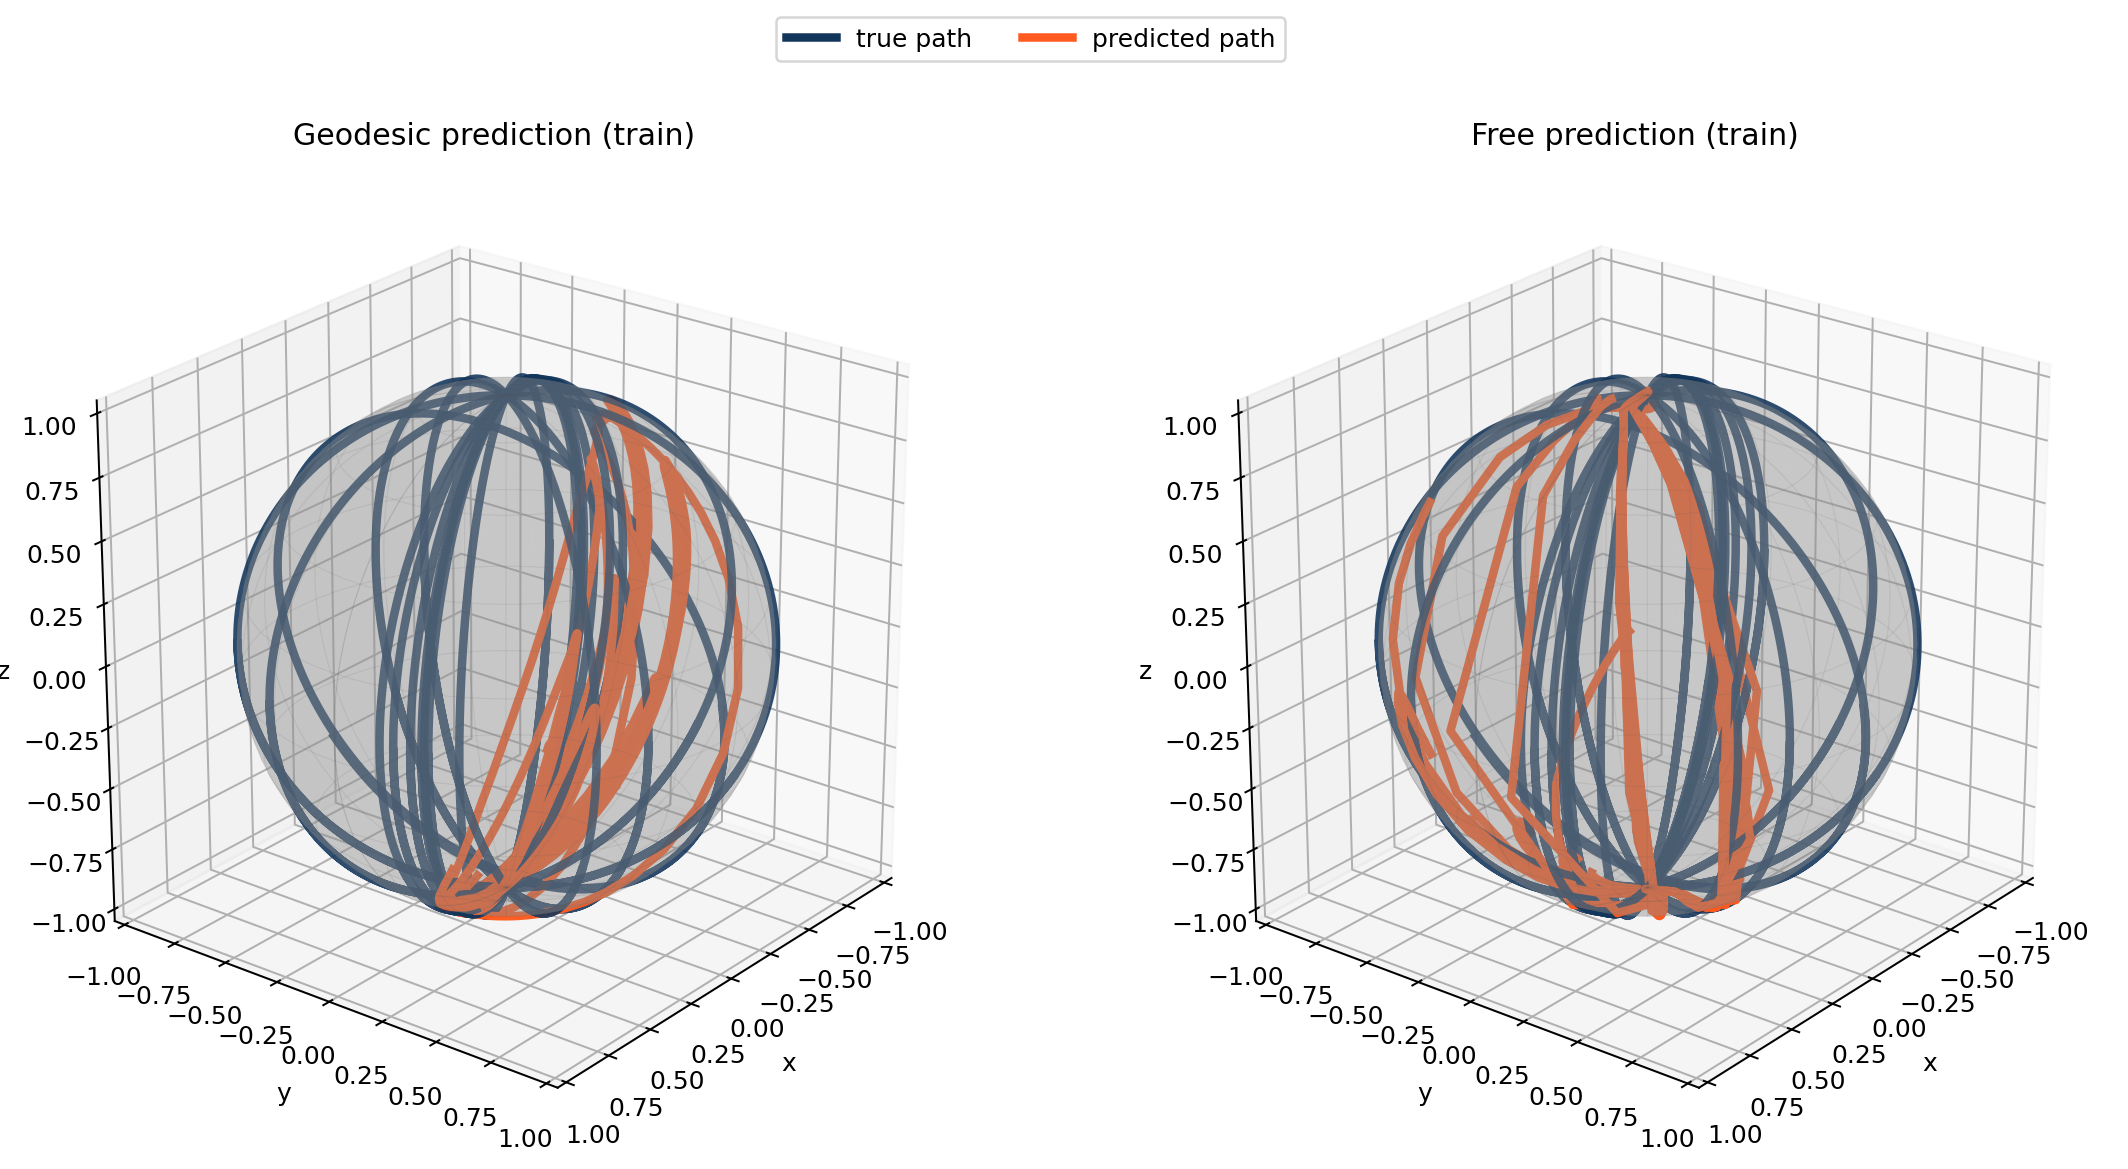
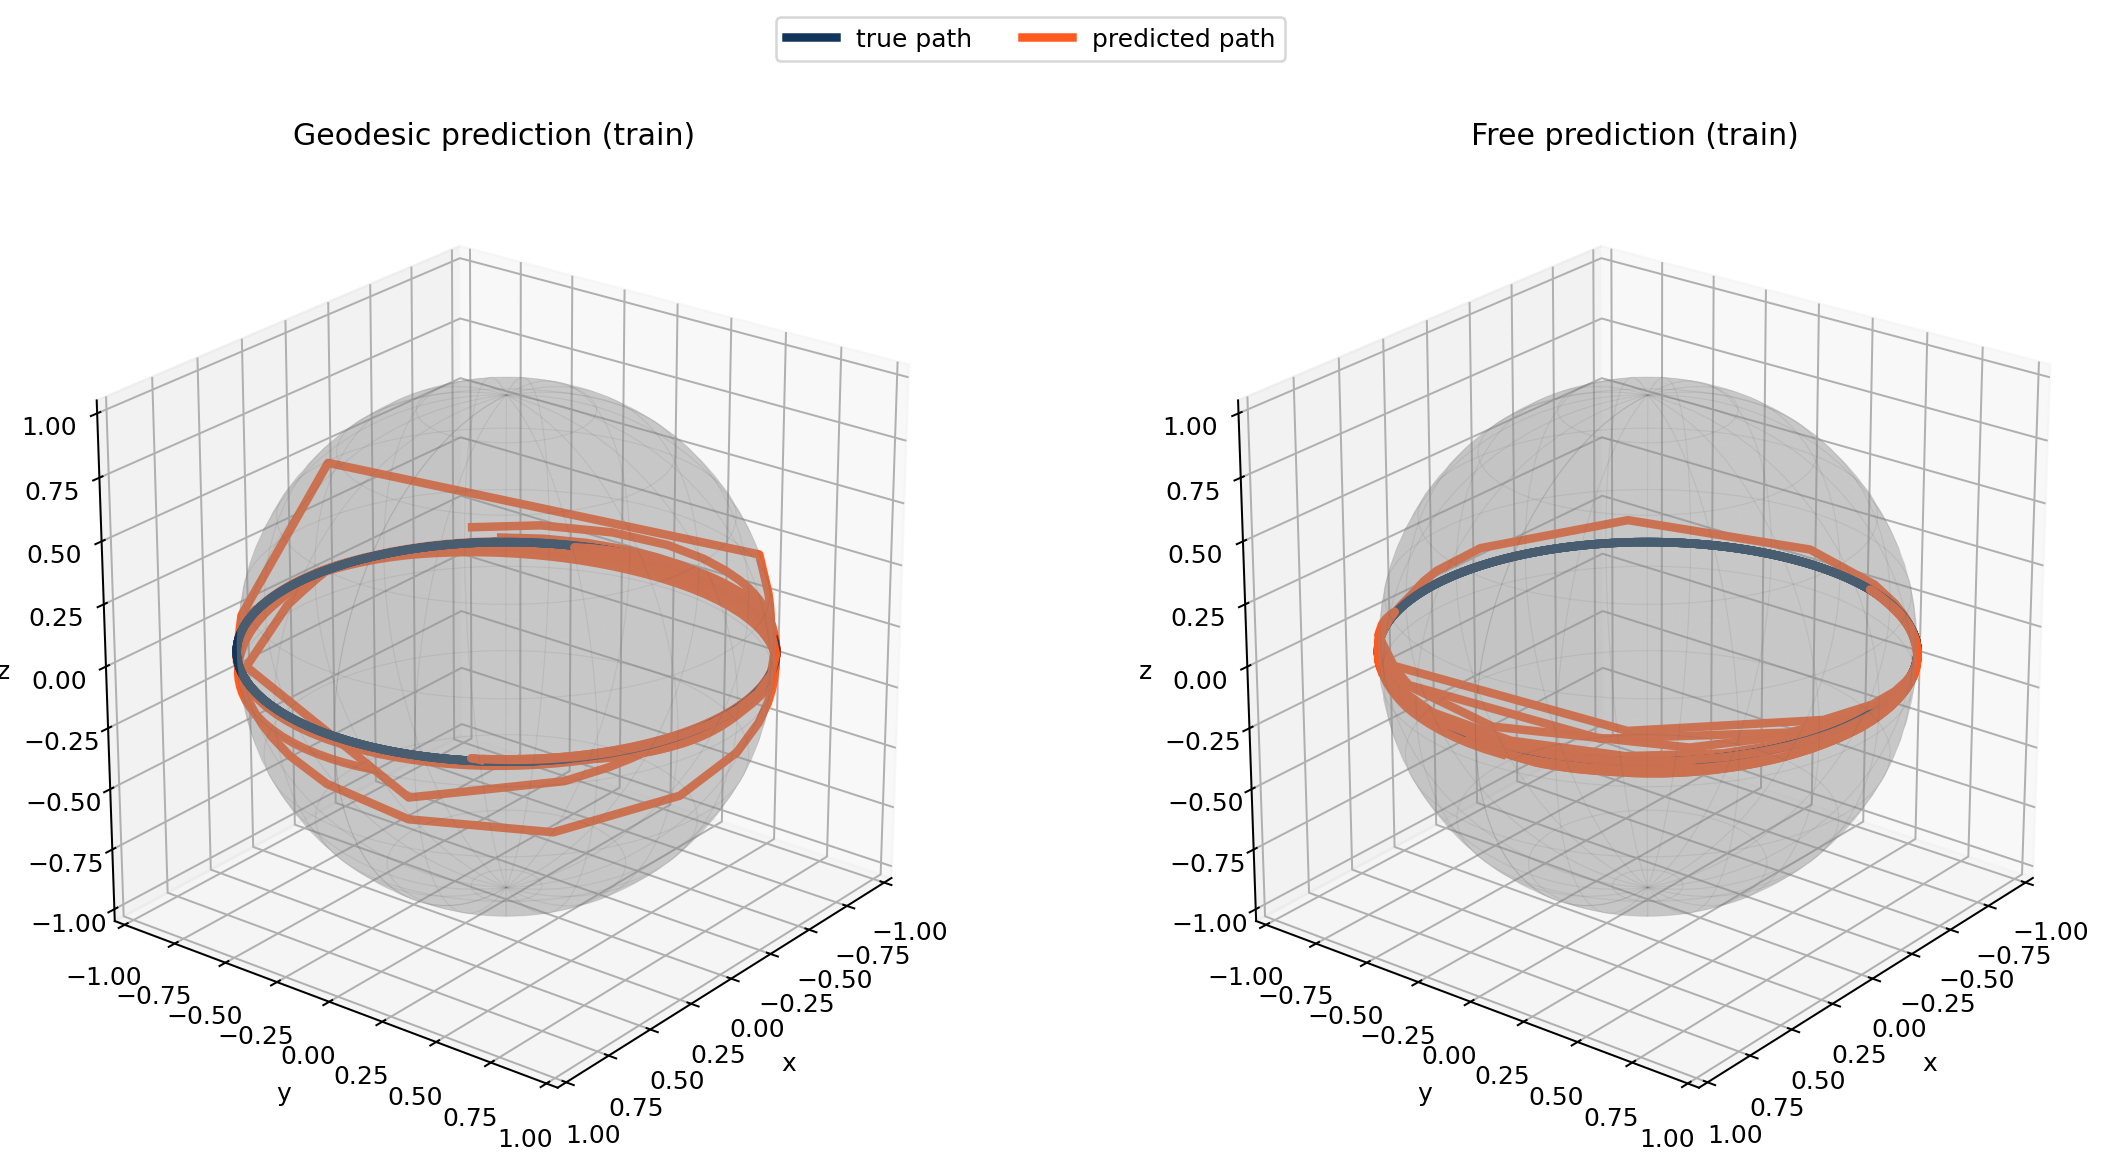
added more visualizations for the various runs

Changed region(s): [[0.093, 0.308, 0.3722, 0.8007], [0.6203, 0.308, 0.9305, 0.8007]]

diff --git a/sandbox/Geodesic_dynamics/fit_sphere_trials.py b/sandbox/Geodesic_dynamics/fit_sphere_trials.py
@@ -20,6 +20,7 @@ from torch.utils.data import DataLoader, random_split
 import torch.nn as nn
 import torch.optim as optim
 
+# for the reconstruction graphs 
 TRUE_COLOR = "#12355B"
 RECON_COLOR = "#FF5A1F"
 SPHERE_COLOR = "#8E8E8E"
@@ -47,12 +48,12 @@ def spherical_geodesic(t, y):
 
 def random_initial_condition(speed=2**-0.5):
     """Different starting point and tangent direction for each simulated trial."""
-    # theta = random.uniform(0.25 * np.pi, 0.75 * np.pi)
-    theta = np.pi / 2 # to test only coordinates at the equator
+    theta = random.uniform(0.25 * np.pi, 0.75 * np.pi)
+    # theta = np.pi / 2 # to test only coordinates at the equator
     phi = random.uniform(0.0, 2.0 * np.pi)
     direction = random.uniform(0.0, 2.0 * np.pi)
-    dtheta = 0.0
-    #dtheta = speed * np.cos(direction)
+    # dtheta = 0.0
+    dtheta = speed * np.cos(direction)
     dphi = speed * np.sin(direction) / max(np.sin(theta), 1e-3)
     return [theta, phi, dtheta, dphi]
 
